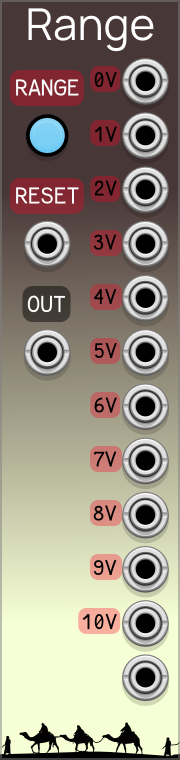
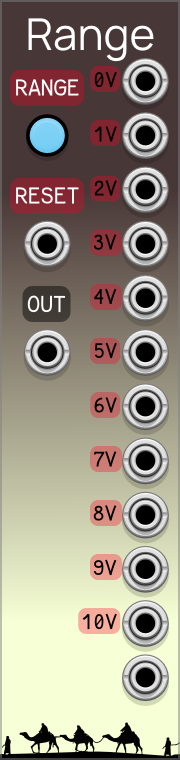
Fix Range title position

Changed region(s): [[0.4444, 0.0, 0.8611, 0.0908], [0.1389, 0.0, 0.4167, 0.0908]]

diff --git a/src/Range.cpp b/src/Range.cpp
@@ -254,7 +254,7 @@ struct RangeWidget : ModuleWidget {
     {
       FramebufferWidget *buffer = new FramebufferWidget();
       DynamicOverlay *overlay = new DynamicOverlay(HP);
-      overlay->addText("Range", 30, Vec(mm2px(HP * HP_UNIT / 2), 20), WHITE,
+      overlay->addText("Range", 30, Vec(mm2px(HP * HP_UNIT / 2), 25), WHITE,
                        CLEAR, MANROPE);
       overlay->addText("RANGE", 13, tapRangeLoc.minus(Vec(0, 20)), WHITE,
                        RED_TRANSPARENT, FANTASQUE, 1);
